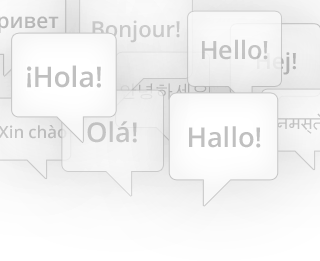
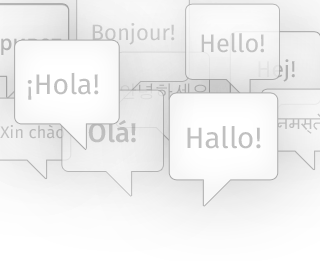
Bug 823472 - Replace Hello bubbles illustration asset in lenguage selection

diff --git a/ftu/css/style.css b/ftu/css/style.css
@@ -276,7 +276,7 @@ html, body {
 */
 
 #languages [data-type="list"] {
-  background: url(images/bg_bubbles.png) 0 -4.5rem no-repeat;
+  background: url(images/bg_bubbles.png) 0 0 no-repeat;
   background-size: 100% auto;
   padding-top: 14rem;
 }
